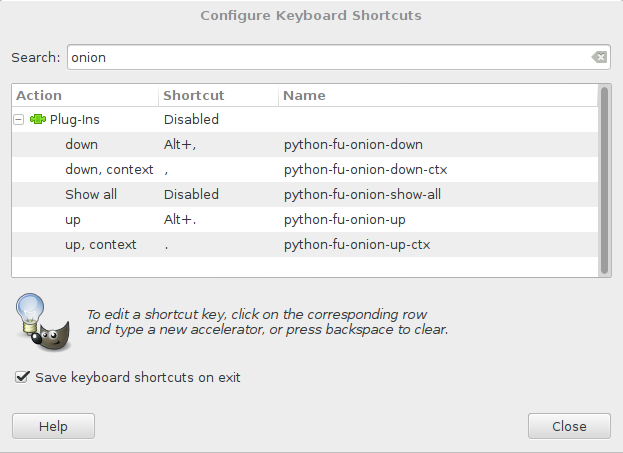
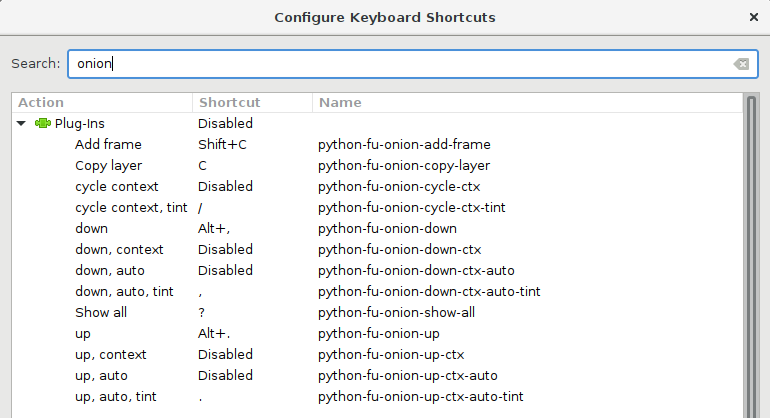
Update README.

diff --git a/README.md b/README.md
@@ -1,19 +1,28 @@
 # GIMP onion layers plug-in
 
 Onion layers is a plug-in for the [GIMP](https://www.gimp.org/) drawing
-program. It provides some convenient shortcuts for switching between frames
-when making hand-drawn animations. It uses the concept sometimes called *onion
-layering*, where the frame you are currently working on is overlaid with the
-previous and next frames to aid in drawing.
+program. It provides some convenient shortcuts for moving up and down the stack
+of frames when making hand-drawn animations, as well as some other useful
+functions. It's based on the concept called *onion layering*, where the frame
+you are currently working on is overlaid with the previous and next frames to
+aid in drawing.
 
 ![](figures/example.png)
 
 Currently it provides the following functions that can be assigned to keyboard
 shortcuts:
 
- *  Switch to previous/next frame, showing neighboring frames with reduced opacity.
- *  Switch to previous/next frame and show only that frame.
+ *  Switch to next/previous frame, optionally showing some neighboring frames.
+ *  Cycle through showing no neighboring frames, only next frame, only previous
+    frame, or both next and previous frames.
  *  Show all frames will full opacity.
+
+Some other useful functions when drawing animations where each frame consists
+of multiple layers are also included:
+
+ *  Copy a layer to all frames.
+ *  Add a new frame, taking the layers in the current one as a template.
+
 
 ## Installation
 
@@ -21,54 +30,107 @@ To install the plug-in, copy the `onion_layers.py` file to `[your home folder]\.
 
 If you have GIMP 2.8 on Linux, running `make install` should do the right thing.
 
-The plug-in was developed for GIMP 2.8.14 and Python 2.7. It might also work
+The plug-in was developed for GIMP 2.8.18 and Python 2.7.13. It might also work
 with other versions - feedback regarding that is welcome.
+
 
 ## Usage
 
 Functions provided by the plug-in can be found in the GIMP menu under "Filters
 -> Animation -> Onion layers".
 
-You probably want to assign keyboard shortcuts to them however. Go to "Edit ->
-Keyboard Shortcuts" and search for "onion". A good choice of shortcuts for
-previous/next frame functions are period and comma keys on a US keyboard. They
-shouldn't conflict with other GIMP shortcuts and match the frame skip shortcuts
-on some video players.
+You want to assign keyboard shortcuts to them however. Go to "Edit -> Keyboard
+Shortcuts" and search for "onion". A good choice of shortcuts for previous/next
+frame functions are period and comma keys on a US keyboard. They shouldn't
+conflict with other GIMP shortcuts and match the frame skip shortcuts on some
+video players.
+
+Following shows the list of available functions as well as a suggestion on what
+keys to assign to them:
 
 ![](figures/keyboard-shortcuts.png)
 
 The plug-in assumes that each top-level layer or layer group represents one
-animation frame. If you have background layers that are common to all frames,
-you can put brackets around their names and they will be ignored by this
-plug-in. Note that this is consistent with how the [Export
-Layers](https://github.com/khalim19/gimp-plugin-export-layers) handles layers.
+animation frame. You should have layers named consistently: top-level groups
+named "frame01", "frame02", etc. and then layers inside named using the same
+pattern, like in the following example. The layer on top of the stack is the
+*last* layer (same ordering is used for animated GIF functions that are built
+into GIMP).
 
+If you have background layers that are common to all frames, you can put
+[brackets] around their names and they will be ignored by this plug-in. This is
+consistent with how the [Export
+Layers](https://github.com/khalim19/gimp-plugin-export-layers) handles
+background layers.
 
 ![](figures/layers.png)
 
-The `python-fu-onion-down-ctx` and `python-fu-onion-up-ctx` functions change
-the visibility and opacity of top-level layers or groups one step up or down.
+
+### Onion layer up/down functions
+
+The `python-fu-onion-down-ctx-auto-tint` and `python-fu-onion-up-ctx-auto-tint`
+functions change the visibility and opacity of top-level layers or groups one
+step up or down.
 
 The currently active frame will be given full opacity, frames one step above
-and below in the stack will be given 25% opacity. Other layers will be hidden.
-This is most useful when working on outlines.
+and below in the stack (if shown) will be given 25% opacity. They will also be
+slightly tinted green (next) and purple (previous). Other layers will be hidden.
 
 The active layer (the layer where the drawing tools have effect) will be
-changed accordingly as well. The plug-in uses some simple heuristics to
-identify matching layers inside groups. It's best to use a naming scheme shown
-in the screenshot above (e.g. nameXX where XX is the number of the frame).
+changed accordingly as well, if you are using the recommended layer naming scheme.
+
+The tinting of layers is done by adding two layers to your image
+("onion-tint-before", "onion-tint-after"). If you find that this makes GIMP too
+slow or you don't like tinting, you can use the identical functions without the
+"-tint" in their names.
 
 The `python-fu-onion-up` and `python-fu-onion-down` functions work in the same
-way, except that neighboring frames are not shown. This is sometimes useful to
-reduce clutter.
+way, except that they force the neighboring frames not to be shown. This is
+sometimes useful to quickly reduce clutter.
+
+
+### Selecting neighboring layer visibility
+
+The `python-fu-onion-cycle-ctx-tint` function will cycle through the four possible
+settings for the visibility of neighboring frames:
+
+ *  No neighboring frames shown,
+ *  both previous and next frames shown,
+ *  only next frame shown and
+ *  only previous frame shown.
+
+Display of neighboring frames gives best results when working on black outlines
+on transparent background. If you have frames colored-in, it's best to not show
+neighboring frames.
+
+The `python-fu-onion-cycle-ctx` function does the same thing, except it does
+not use tinting layers.
+
+
+### Preparing frames for export
 
 The `python-fu-onion-show-all` can be used to reset the visibility and opacity
 of all layers. This is useful before exporting the layers using *Export
 Layers*, since otherwise some frames might get exported with reduced opacity.
 
-The plug-in at the moment also exposes `python-fu-onion-up-ctx-auto`,
-`python-fu-onion-down-ctx-auto` and `python-fu-onion-cycle-context`. These are
-still under development as of July 2018 and are not yet documented.
+This function also cleans up the tinting layers.
+
+
+### Other useful things
+
+These functions only work when frames are layer groups, not single frames.
+
+`python-fu-onion-copy-layer` will copy currently active layer to all frames. It
+will rename the copies to keep the correct naming scheme.
+
+If a layer with such a name already exists in a frame, it will only copy over
+opacity and visibility. Hence this function is useful both to add a layer to
+all frames as well as quickly show or hide a layer in all frames.
+
+`python-fu-onion-add-frame` will add a new frame above the currently active
+one. It will renumber all other frames to keep consistent naming. It will also
+create blank layers inside the new group, taking the current frame as a template.
+
 
 ## Known problems
 
@@ -80,9 +142,16 @@ there is no way for a plug-in to manipulate the undo history. The code makes
 sure to do its thing with as few undo steps as possible, but fundamentally this
 is a limitation of the GIMP plug-in interface.
 
+If you press keyboard shortcuts faster than your computer can follow them, you
+might get a pop-up with an error similar to "Plug-In 'up, auto, tint' left
+image undo in inconsistent state, closing open undo groups." This seems to be
+caused by some race condition in GIMP. If this happens, the visibility of
+layers might be messed up, but otherwise it shouldn't have any effect. Calling
+`cycle-ctx` should restore a sane state.
+
 ## License
 
-GIMP onion layers plug-in is Copyright (C) 2017 Tomaž Šolc tomaz.solc@tablix.org
+GIMP onion layers plug-in is Copyright (C) 2018 Tomaž Šolc tomaz.solc@tablix.org
 
 This program is free software: you can redistribute it and/or modify it under
 the terms of the GNU General Public License as published by the Free Software
